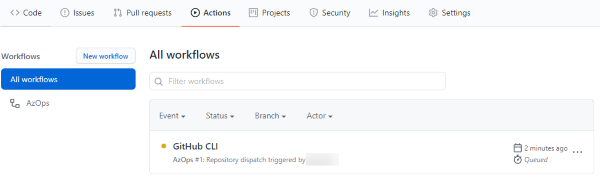
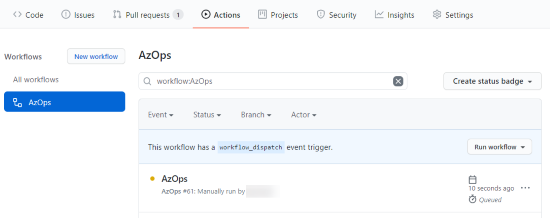
Update GitHub discovery trigger

diff --git a/docs/enterprise-scale-iab/setup-git-cicd.md b/docs/enterprise-scale-iab/setup-git-cicd.md
@@ -66,27 +66,16 @@ The Discovery/Initialization process will run entirely on GitHub. Follow these s
 
     ![_Figure_](./media/wt-2.1-2.png)
 
-9. Now, we will run discovery, based on GitHub Actions, to discover your existing Azure environment and initialize your GitHub repo. For this exercise we will use GitHub CLI (please refer to the prerequisites [article](../Deploy/getting-started.md) to ensure you've the correct version installed).
+9. Now, we will run discovery, based on GitHub Actions, to discover existing Azure environment and initialize your GitHub repo. This uses the GitHub Actions `workflow_dispatch` trigger. This requires the latest `.github/workflows/azops.yml` file containing the `workflow_dispatch` section in the current repo.
 
-    > **NOTE:**
-    >If you prefer, execute the discovery process via Bash or PowerShell as described on this [article](../Deploy/discover-environment.md).
-
-    Open a terminal window in Visual Studio Code, or another shell of your preference, and execute the following command:
-
-    ```bash
-    gh api -X POST repos/<Your GitHub ID>/<Your Repo Name>/dispatches --field event_type="GitHub CLI"
-    ```
-
-    > **NOTE:**
-    > If you run this for the first time you must authenticate. Follow the steps in the command window. In the following screen you need to complete the authorization.
+    Go to the **Actions** tab in your GitHub repository and select the **AzOps** workflow. Click on **Run workflow**, select _Branch: main_ and _Action to trigger = pull_ and start the process with **Run workflow** button.
 
     ![_Figure_](./media/wt-2.1-3.png)
 
-    Go back to your terminal window and press enter.
+    > **NOTE:**
+    >If you prefer, execute the discovery process via commandline as described on this [article](../Deploy/discover-environment.md).
 
-    ![_Figure_](./media/wt-2.1-4.png)
-
-10. Go back to your GitHub repo and select the **Action** tab. You should now see an AzOps action running (or completed) with the name GitHub CLI.
+10. You should now see an GitHub Action running with the name **AzOps**.
 
     ![_Figure_](./media/wt-2.1-5.png)
 
